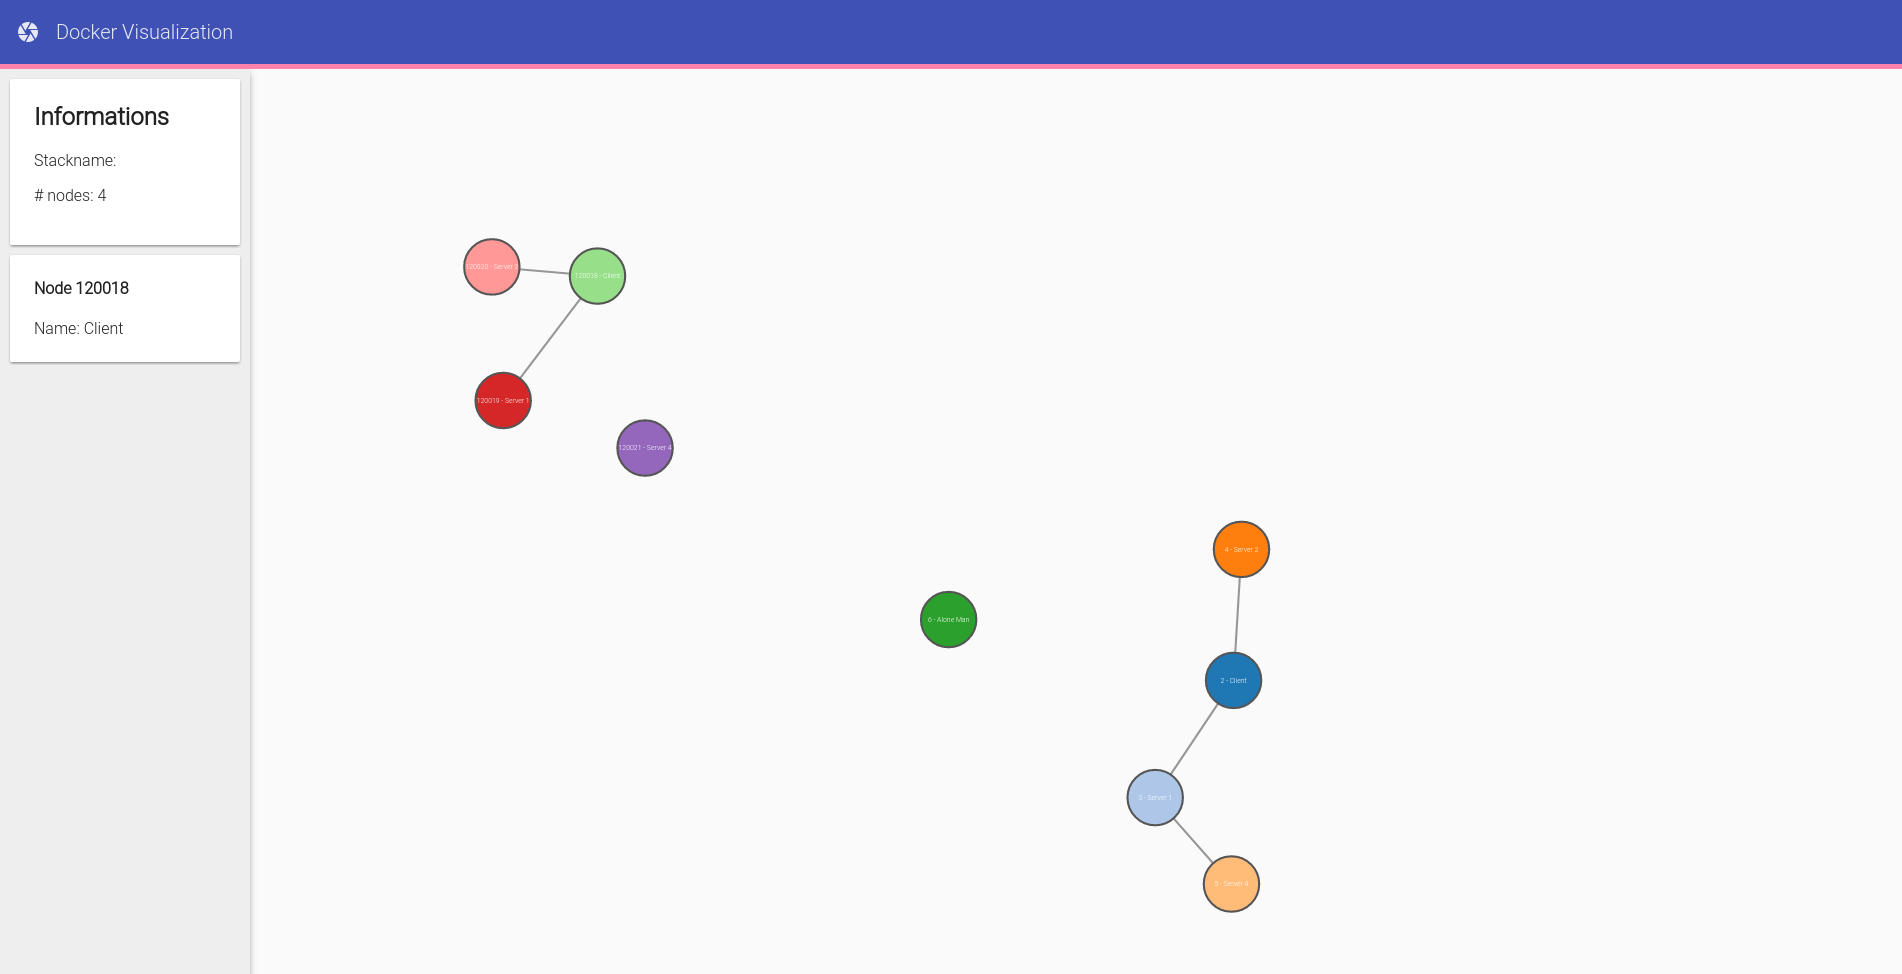
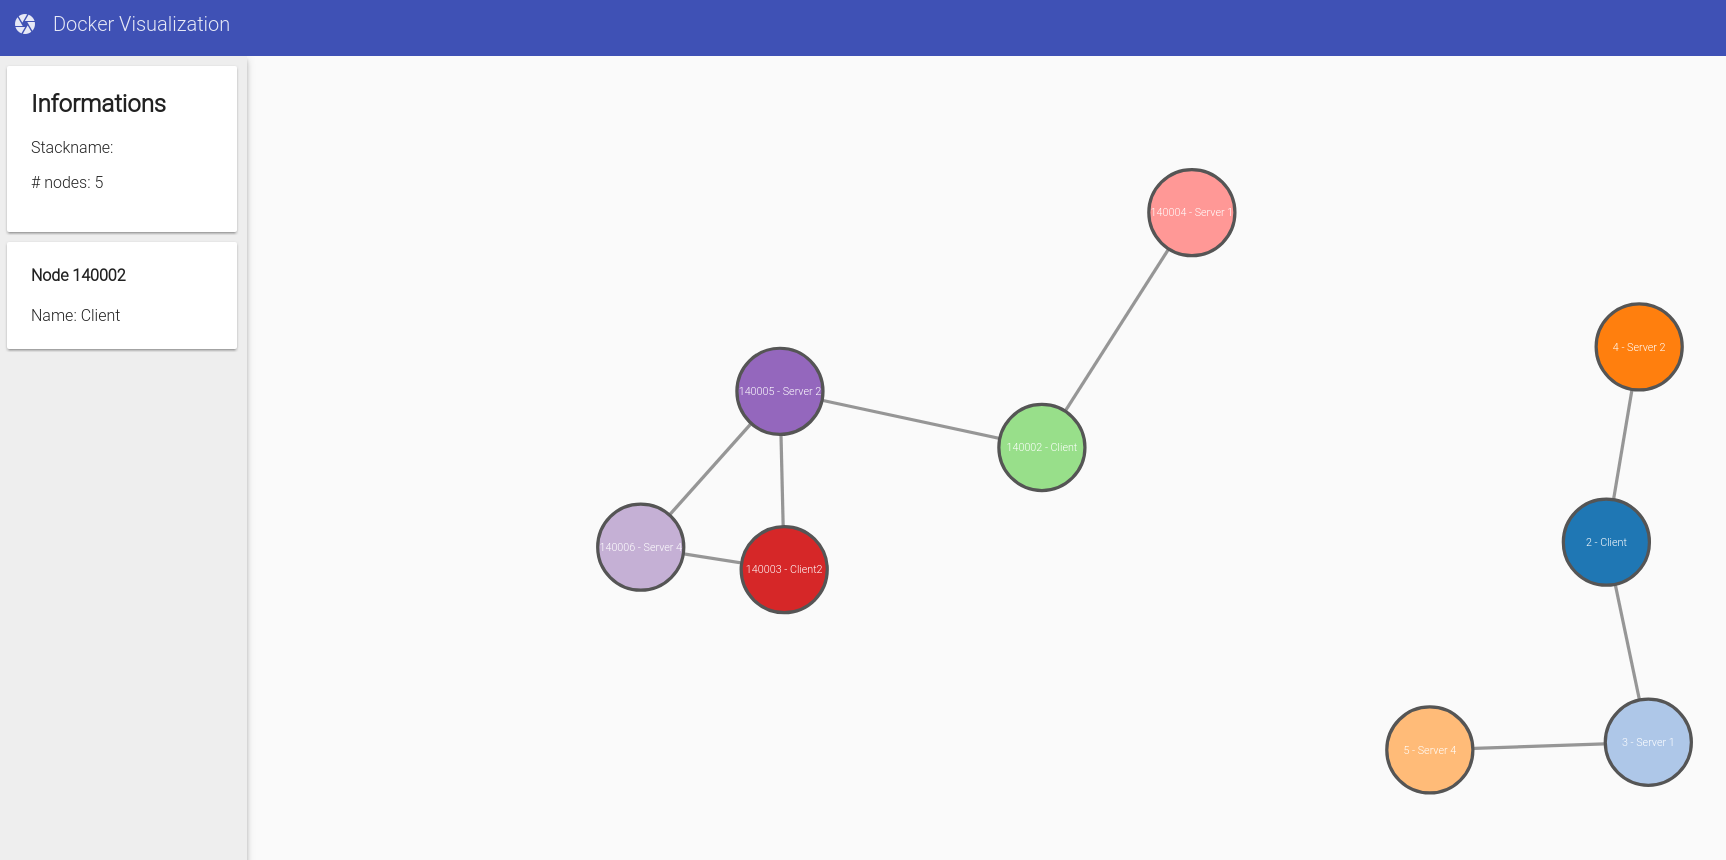
fix(graph-container): construct all graph edges

diff --git a/src/app/graph-container/graph-container.component.ts b/src/app/graph-container/graph-container.component.ts
@@ -48,7 +48,7 @@ export class GraphContainerComponent implements OnInit {
         const links = graph
           .filter(node => node['Connected'] !== null)
           .map(node => node['Connected'].map(n => new Link(node.UID, n.UID, 3)));
-        return [nodes, links[0]];
+        return [nodes, [].concat.apply([], links)];
       })
       .do(data => this.stateService.dispatch('SIZE', data[0].length))
       .subscribe(

diff --git a/src/app/d3/models/node.ts b/src/app/d3/models/node.ts
@@ -10,12 +10,12 @@ export class Node implements d3.SimulationNodeDatum {
   fx?: number | null;
   fy?: number | null;
 
-  id: string;
+  id: number;
   name: string;
   linkCount = 0;
   private _color: string;
 
-  constructor(id, name) {
+  constructor(id: number, name) {
     this.id = id;
     this.name = name;
   }
